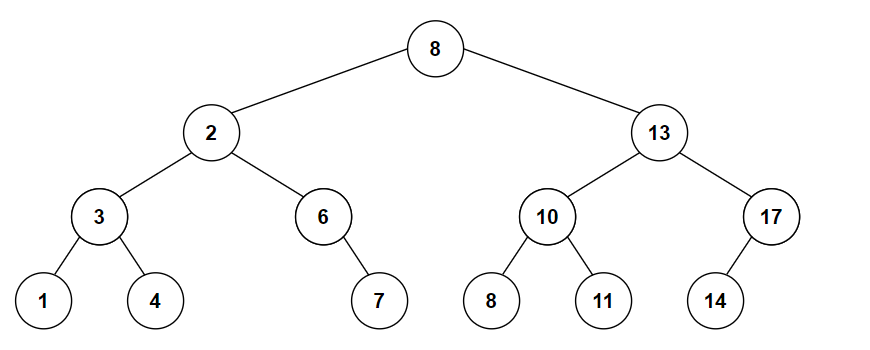
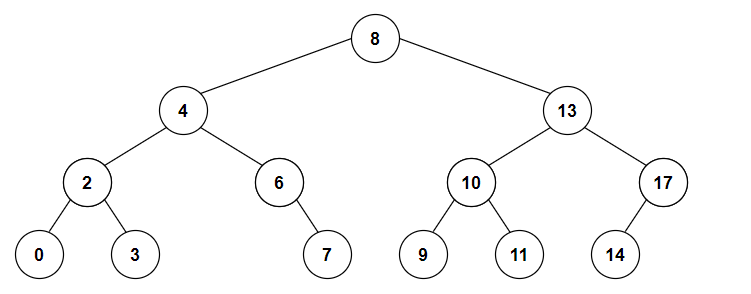
Add in 'BST': correct tree, def cstr, dstr, insert, clear, predecessor.

diff --git a/DataStructures/Tree/BST/src/BST.cpp b/DataStructures/Tree/BST/src/BST.cpp
@@ -14,8 +14,7 @@
 
 // Default constructor
 template<typename T>
-BST<T>::BST() {
-}
+BST<T>::BST() : _root(nullptr), _size(0) { }
 
 //// Parametrized constructor
 //template<class T>
@@ -33,7 +32,89 @@ BST<T>& BST<T>::operator=(const BST& rhs) {
 
 // Destructor
 template<typename T>
-BST<T>::~BST() {
+BST<T>::~BST() { clear(); }
+
+
+// --------------
+// Element Access
+// --------------
+
+// Finds a specific element within the container
+template<typename T>
+typename BST<T>::Node* BST<T>::search(const T& value) const {
+    Node* current = _root;
+
+    while (current != nullptr) {
+        if (current->_data == value) {
+            return current;
+        }
+        else if (current->_data > value) {
+            current = current->_left;
+        }
+        else {
+            current = current->_right;
+        }
+    }
+
+    return nullptr;
+}
+
+// Finds the maximum element within the container
+template<typename T>
+typename BST<T>::Node* BST<T>::maximum() const {
+}
+
+// Finds the minimum element within the container
+template<typename T>
+typename BST<T>::Node* BST<T>::minimum() const {
+}
+
+//// Finds the predecessor of a given value in the BST
+//template<typename T>
+//typename BST<T>::Node* BST<T>::predecessor(const T& value) const {
+//    Node* current = _root;
+//    Node* pred = nullptr;
+//
+//    while (current != nullptr) {
+//        if (current->_data < value) {
+//            pred = current;
+//            current = current->_right;
+//        }
+//        else {
+//            current = current->_left;
+//        }
+//    }
+//
+//    return pred;
+//}
+
+// Finds the value of the predecessor of a given value in the BST
+template<typename T>
+T BST<T>::predecessor(const T& value) const {
+    Node* current = _root;
+    Node* pred = nullptr;
+
+    while (current != nullptr) {
+        if (current->_data < value) {
+            pred = current;
+            current = current->_right;
+        }
+        else {
+            current = current->_left;
+        }
+    }
+
+    if (pred != nullptr) {
+        return pred->_data;
+    }
+    else {
+        return T(); // 0
+    }
+}
+
+// Finds the successor of a given value in the BST
+template<typename T>
+typename BST<T>::Node* BST<T>::successor(const T& value) const {
 }
 
 
@@ -51,11 +132,6 @@ template<typename T>
 int BST<T>::size() const {
 }
 
-// Checks if the specified element is present in container
-template<typename T>
-bool BST<T>::contains(const T& value) const {
-}
-
 // Returns the number of edges from leaf node to a particular node
 template<typename T>
 int BST<T>::height() const {
@@ -71,10 +147,41 @@ int BST<T>::depth() const {
 // Modifiers
 // ---------
 
-// Appends specified element to the container based on criteria
-// Criteria: undecieded right now
+// Appends specified element to the container based on criteria for every node:
+// all values in the left subtree are less than the value of the node,
+// and all values in the right subtree are greater than the value of the node
 template<typename T>
 void BST<T>::insert(const T& value) {
+    Node* newNode = new Node(value);
+
+    if (_root == nullptr) {
+        _root = newNode;
+    }
+    else {
+        Node* current = _root;
+        while (true) {
+            if (current->_data > value) {
+                if (current->_left == nullptr) {
+                    current->_left = newNode;
+                    break;
+                }
+                else {
+                    current = current->_left;
+                }
+            }
+            else {
+                if (current->_right == nullptr) {
+                    current->_right = newNode;
+                    break;
+                }
+                else {
+                    current = current->_right;
+                }
+            }
+        }
+    }
+
+    _size++;
 }
 
 // Removes the particular element of the container
@@ -82,9 +189,98 @@ template<typename T>
 void BST<T>::remove(const T& value) {
 }
 
+//// Erases all elements from the container
+//template<typename T>
+//void BST<T>::clear() {
+//    // Post-order traversal
+//    while (_root != nullptr) {
+//        Node* current = _root;
+//        
+//        // Traverse to the leftmost leaf node
+//        while (current->_left != nullptr || current->_right != nullptr) {
+//            if (current->_left != nullptr) {
+//                current = current->_left;
+//            }
+//            else {
+//                current = current->_right;
+//            }
+//        }
+//
+//        // Leaf delete directly, internal based on position
+//        if (current == _root) {
+//            delete _root;
+//            _root = nullptr;
+//        }
+//        else {
+//            Node* parent = predecessor(current->_data);
+//            
+//            // Left or right child
+//            if (parent->_left == current) {
+//                delete parent->_left;
+//                parent->_left = nullptr;
+//            }
+//            else {
+//                delete parent->_right;
+//                parent->_right = nullptr;
+//            }
+//        }
+//    }
+//
+//    _size = 0;
+//}
+
 // Erases all elements from the container
 template<typename T>
 void BST<T>::clear() {
+    // Post-order traversal
+    while (_root != nullptr) {
+        Node* current = _root;
+
+        // Traverse to the leftmost leaf node
+        while (current->_left != nullptr || current->_right != nullptr) {
+            if (current->_left != nullptr) {
+                current = current->_left;
+            }
+            else {
+                current = current->_right;
+            }
+        }
+
+        // Leaf delete directly, internal based on position
+        if (current == _root) {
+            delete _root;
+            _root = nullptr;
+        }
+        else {
+            // Find the parent of the current node
+            T currentData = current->_data;
+            Node* parent = nullptr;
+            Node* node = _root;
+            while (node != nullptr && node->_data != currentData) {
+                parent = node;
+                if (currentData < node->_data) {
+                    node = node->_left;
+                }
+                else {
+                    node = node->_right;
+                }
+            }
+
+            // Delete the current node based on its position relative to the parent
+            if (parent != nullptr) {
+                if (parent->_left != nullptr && parent->_left->_data == currentData) {
+                    delete parent->_left;
+                    parent->_left = nullptr;
+                }
+                else if (parent->_right != nullptr && parent->_right->_data == currentData) {
+                    delete parent->_right;
+                    parent->_right = nullptr;
+                }
+            }
+        }
+    }
+
+    _size = 0;
 }
 
 

diff --git a/DataStructures/Tree/BST/src/Main.cpp b/DataStructures/Tree/BST/src/Main.cpp
@@ -16,19 +16,44 @@ int main() {
 	// Greet
 	std::cout << "\tWelcome to the 'Binary Search Tree' console application!\n";
 
-	// Create initial tree 
+	// Create initial tree
+	// Note: there is no balancing
 	std::cout << "\nCreating & filling initial tree #1...\n";
 	BST<int> tree1;
-	tree1.insert(7);
-	tree1.insert(2);
-	tree1.insert(0);
+	tree1.insert(8); // level 0
+	tree1.insert(4); // level 1
+	tree1.insert(13);
+	tree1.insert(2); // level 2
+	tree1.insert(6);
+	tree1.insert(10);
+	tree1.insert(17);
+	tree1.insert(0); // level 3
 	tree1.insert(3);
-	tree1.insert(1);
+	tree1.insert(7);
 	tree1.insert(9);
-	tree1.insert(1);
+	tree1.insert(11);
+	tree1.insert(14);
+
+	// Visualization is from markdown file
+	//                  8
+	//           /             \
+	//         4                13
+	//      /    \            /     \
+	//     2      6         10        17
+	//   /   \     \       /  \      /
+	//  0     3     7     9   11   14
+
+	// Show stats
+    std::cout << "\nShowing statistics of the tree #1...\n";
+    std::cout << "Predecessor of '8' is " << tree1.predecessor(8) << std::endl;
+
+	//// Show stats
+	//std::cout << "\nShowing statistics of the tree #1...\n";
+	//std::cout << "Maximum: " << tree1.maximum() << std::endl;
+	//std::cout << "Minimum: " << tree1.minimum() << std::endl;
 
 	// Show tree #1
-	std::cout << "Is it empty:\t" << tree1.empty() << std::endl;
+	//std::cout << "Is it empty:\t" << tree1.empty() << std::endl;
 	//printTree(tree1);
 
 	// Exit

diff --git a/DataStructures/Tree/BST/inc/BST.h b/DataStructures/Tree/BST/inc/BST.h
@@ -17,7 +17,8 @@ private:
         Node(const T& val) : _data(val), _left(nullptr), _right(nullptr) {}
     };
 
-    Node* root;
+    Node* _root;
+    int _size;
 
 public:
     // Special Member Functions
@@ -26,13 +27,18 @@ public:
     BST& operator=(const BST& rhs);
     ~BST();
 
+    // Element Access
+    Node* search(const T& value) const;
+    Node* maximum() const;
+    Node* minimum() const;
+    T predecessor(const T& value) const;
+    Node* successor(const T& value) const;
+
     // Capacity
     bool empty() const;
     int size() const;
-    bool contains(const T& value) const;
     int height() const;
     int depth() const;
-
 
     // Modifiers
     void insert(const T& value);

diff --git a/DataStructures/Tree/BST/BST.md b/DataStructures/Tree/BST/BST.md
@@ -80,6 +80,7 @@ For contact details and additional information, please refer to the [root direct
 &#127760; **Web-Resources:**  
 - [Binary search tree](https://en.wikipedia.org/wiki/Binary_search_tree) (Wikipedia)
 - [How to handle duplicates in BST?](https://www.geeksforgeeks.org/how-to-handle-duplicates-in-binary-search-tree/)
+- [Balancing a binary search tree](https://appliedgo.net/balancedtree/)
 
 
 
